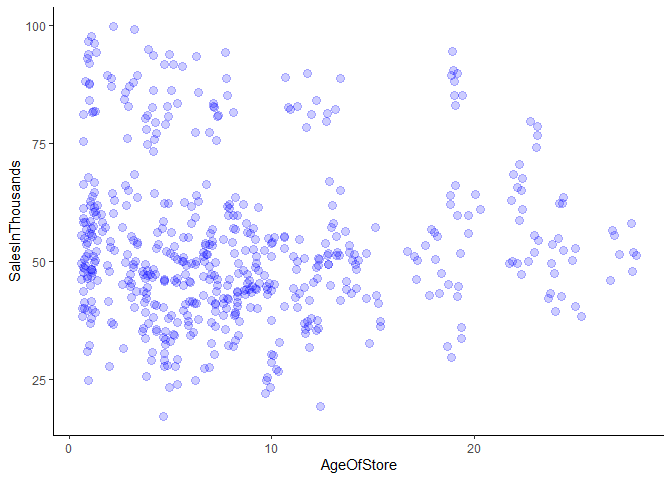
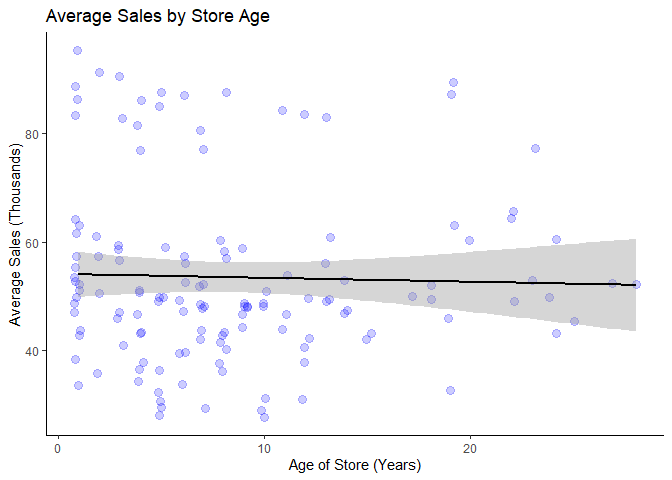
Continued Analysis

diff --git a/ab_testing_example.md b/ab_testing_example.md
@@ -66,14 +66,14 @@ d$Promotion = as.factor(d$Promotion)
 print(summary(d))
 ```
 
-    ##     MarketID    MarketSize    LocationID    AgeOfStore     Promotion
-    ##  3      : 88   Large :168   1      :  4   Min.   : 1.000   1:172    
-    ##  10     : 80   Medium:320   2      :  4   1st Qu.: 4.000   2:188    
-    ##  5      : 60   Small : 60   3      :  4   Median : 7.000   3:188    
-    ##  6      : 60                4      :  4   Mean   : 8.504            
-    ##  7      : 60                5      :  4   3rd Qu.:12.000            
-    ##  1      : 52                6      :  4   Max.   :28.000            
-    ##  (Other):148                (Other):524                             
+    ##     MarketID    MarketSize          LocationID    AgeOfStore     Promotion
+    ##  3      : 88   Length:548         1      :  4   Min.   : 1.000   1:172    
+    ##  10     : 80   Class :character   2      :  4   1st Qu.: 4.000   2:188    
+    ##  5      : 60   Mode  :character   3      :  4   Median : 7.000   3:188    
+    ##  6      : 60                      4      :  4   Mean   : 8.504            
+    ##  7      : 60                      5      :  4   3rd Qu.:12.000            
+    ##  1      : 52                      6      :  4   Max.   :28.000            
+    ##  (Other):148                      (Other):524                             
     ##       week      SalesInThousands
     ##  Min.   :1.00   Min.   :17.34   
     ##  1st Qu.:1.75   1st Qu.:42.55   
@@ -140,9 +140,9 @@ d %>%
   summarise(avg_sales = mean(SalesInThousands))
 ```
 
-    ## # A tibble: 3 x 2
+    ## # A tibble: 3 × 2
     ##   MarketSize avg_sales
-    ##   <fct>          <dbl>
+    ##   <chr>          <dbl>
     ## 1 Large           70.1
     ## 2 Medium          44.0
     ## 3 Small           57.4
@@ -199,16 +199,26 @@ chisq.test(table(d$Promotion, d$MarketSize))
 Based on this analysis, I will not worry too much about market size
 being a confound. The distribution of promotions is balanced enough
 across the different markets, based on the insignificance of the
-chi-squre value.
+chi-square value.
+
+### Store Age
 
 Next, in our further exploration of possible confounds, we can check to
-see if the age of the store has an impact on sales.
+see if the age of the store has an impact on sales. A simple scatter
+plot and correlation metric will suffice here.
 
 ``` r
 library(ggplot2)
-ggplot(d, aes(x = AgeOfStore, y = SalesInThousands))+
-  geom_jitter(width = 0.4, alpha = 0.2, color = "blue", size = 3)+
-  theme_classic()
+#Average for each store across the 4 weeks
+d %>% group_by(LocationID) %>%
+  summarise(AgeOfStore = mean(AgeOfStore), Avg_Sales = mean(SalesInThousands)) %>%
+#Plot
+ggplot(aes(x = AgeOfStore, y = Avg_Sales))+
+  geom_jitter(width = 0.2, alpha = 0.2, color = "blue", size = 3)+
+  theme_classic()+
+  geom_smooth(method = "lm", color = "black")+
+  ggtitle("Average Sales by Store Age")+
+  xlab("Age of Store (Years)")+ylab("Average Sales (Thousands)")
 ```
 
 ![](ab_testing_example_files/figure-gfm/unnamed-chunk-6-1.png)<!-- -->
@@ -228,3 +238,161 @@ cor.test(d$AgeOfStore, d$SalesInThousands)
     ## sample estimates:
     ##         cor 
     ## -0.02853288
+
+It doesn’t appear that the age of the store has a significant impact on
+sales.
+
+### Time
+
+Getting into our first look at the efficacy of the marketing campaigns,
+let’s visualize how the store sales change over the course of the 4
+weeks that were measured. One would assume that a successful marketing
+campaign would show increased sales as time goes on. However, there are
+plenty of market forces outside of our control that could impact these
+numbers at large.
+
+``` r
+ggplot(d, aes(x = week, y = SalesInThousands, group = LocationID, color = MarketSize))+
+  geom_line(alpha = 0.4, size = 1)+
+  theme_classic()+
+  ggtitle("Sales During Marketing Campaigns (First 4 Weeks)")
+```
+
+![](ab_testing_example_files/figure-gfm/unnamed-chunk-7-1.png)<!-- -->
+
+There is a lot going on here, and it is tough to parse out any trend
+over time, likely meaning that any effect is going to be relatively
+small and potentially insignificant. I decided to color the lines by
+market size, as they further illustrate that:
+
+- Large markets tend to have much higher sales numbers than small and
+  medium markets.
+- Medium markets far outnumber both small and large markets in this data
+  set.
+
+I will employ a slightly different approach to investigate whether sales
+are increasing over time.
+
+``` r
+library(reshape2)
+#Reshape to 1 row per LocationID, weeks as columns, sales as cell values
+dcast = dcast(d, LocationID~week, value.var = "SalesInThousands")
+#Create a new column that represents the difference in sales between weeks 1 and 4
+dcast$diff = dcast[,5]-dcast[,2]
+
+#Density plot of differences
+ggplot(dcast, aes(diff))+
+  geom_density(color = "blue", size = 1, fill = "blue", alpha = 0.5, bw = 1)+
+  geom_histogram(aes(y = ..density..), fill = "black", alpha = 0.3)+
+  theme_classic()+
+  geom_vline(aes(xintercept = median(dcast$diff)), size = 1.2)+
+  xlab("Difference in Individual Location Earnings (Week 4 - Week 1)")
+```
+
+![](ab_testing_example_files/figure-gfm/unnamed-chunk-8-1.png)<!-- -->
+
+There doesn’t seem to be much of a noteworthy trend here, either. If
+anything, this distribution is slightly skewed to suggest fewer sales in
+Week 4. As one final test, we can write a regression model to check this
+conclusion.
+
+For this model, I will be predicting sales as a function of week. I will
+be including random intercepts for each LocationID, since the locations
+represent a small sample of a larger population. Additionally, locations
+are nested within markets, which are also random, so I will specify that
+in the model as well. I would ideally like to do random slopes for
+locations in addition to random intercepts, however I was given warnings
+about the model being overfit when I tried that.
+
+``` r
+library(lme4)
+summary(lmer(SalesInThousands~week+(1|MarketID/LocationID), d))
+```
+
+    ## Linear mixed model fit by REML ['lmerMod']
+    ## Formula: SalesInThousands ~ week + (1 | MarketID/LocationID)
+    ##    Data: d
+    ## 
+    ## REML criterion at convergence: 3561.4
+    ## 
+    ## Scaled residuals: 
+    ##      Min       1Q   Median       3Q      Max 
+    ## -2.66878 -0.60766  0.02688  0.65667  2.79161 
+    ## 
+    ## Random effects:
+    ##  Groups              Name        Variance Std.Dev.
+    ##  LocationID:MarketID (Intercept)  15.97    3.996  
+    ##  MarketID            (Intercept) 198.84   14.101  
+    ##  Residual                         26.52    5.150  
+    ## Number of obs: 548, groups:  LocationID:MarketID, 137; MarketID, 10
+    ## 
+    ## Fixed effects:
+    ##             Estimate Std. Error t value
+    ## (Intercept)  52.5821     4.5071  11.667
+    ## week         -0.1645     0.1968  -0.836
+    ## 
+    ## Correlation of Fixed Effects:
+    ##      (Intr)
+    ## week -0.109
+
+Looking at the summary statistics of this model, week is given a very
+small negative coefficient with a relatively large standard error. This
+means that week has a small, insignificant impact on sales. We won’t
+need to worry about it much when assessing the impact of the marketing
+campaigns
+
+## Analysis of Promotion Campaign
+
+To analyze the impacts of the promotion campaigns, I will use a very
+similar linear model to the one I used above to investigate the effects
+of week. The only difference here is that we are replacing *week*, a
+continuous predictor, with *Promotion*, which is categorical. All other
+aspects of the model with regards to random effects and nesting will
+stay the same.
+
+    ## Analysis of Variance Table
+    ##           npar Sum Sq Mean Sq F value
+    ## Promotion    2 8022.5  4011.2  151.35
+
+``` r
+library(emmeans)
+model_output = emmeans(model, specs = pairwise~Promotion)
+estimates = data.frame(model_output$emmeans)
+ggplot(estimates, aes(x = Promotion, y = emmean, fill = Promotion, label = round(emmean,1)))+
+  geom_bar(stat = "identity")+
+  geom_errorbar(
+    aes(ymin = lower.CL, ymax = upper.CL),
+    width = 0.3,
+    size = 1.3
+    )+
+  geom_text(size = 5, nudge_x = .35, nudge_y = -1.6, color = "white", fontface = "bold")+
+  theme_classic()+
+  scale_fill_brewer(palette = "Dark2")+
+  ylab("Average Sales (Thousands)")+
+  ggtitle("Average Sales by Promotion")+
+  theme(legend.position = "None")
+```
+
+![](ab_testing_example_files/figure-gfm/unnamed-chunk-11-1.png)<!-- -->
+
+``` r
+model_output
+```
+
+    ## $emmeans
+    ##  Promotion emmean   SE   df lower.CL upper.CL
+    ##  1           57.1 4.44 9.12     47.1     67.1
+    ##  2           47.4 4.44 9.12     37.3     57.4
+    ##  3           52.2 4.44 9.10     42.1     62.2
+    ## 
+    ## Degrees-of-freedom method: satterthwaite 
+    ## Confidence level used: 0.95 
+    ## 
+    ## $contrasts
+    ##  contrast                estimate    SE  df t.ratio p.value
+    ##  Promotion1 - Promotion2     9.72 0.559 125  17.397  <.0001
+    ##  Promotion1 - Promotion3     4.92 0.568 125   8.662  <.0001
+    ##  Promotion2 - Promotion3    -4.80 0.570 125  -8.422  <.0001
+    ## 
+    ## Degrees-of-freedom method: satterthwaite 
+    ## P value adjustment: tukey method for comparing a family of 3 estimates
